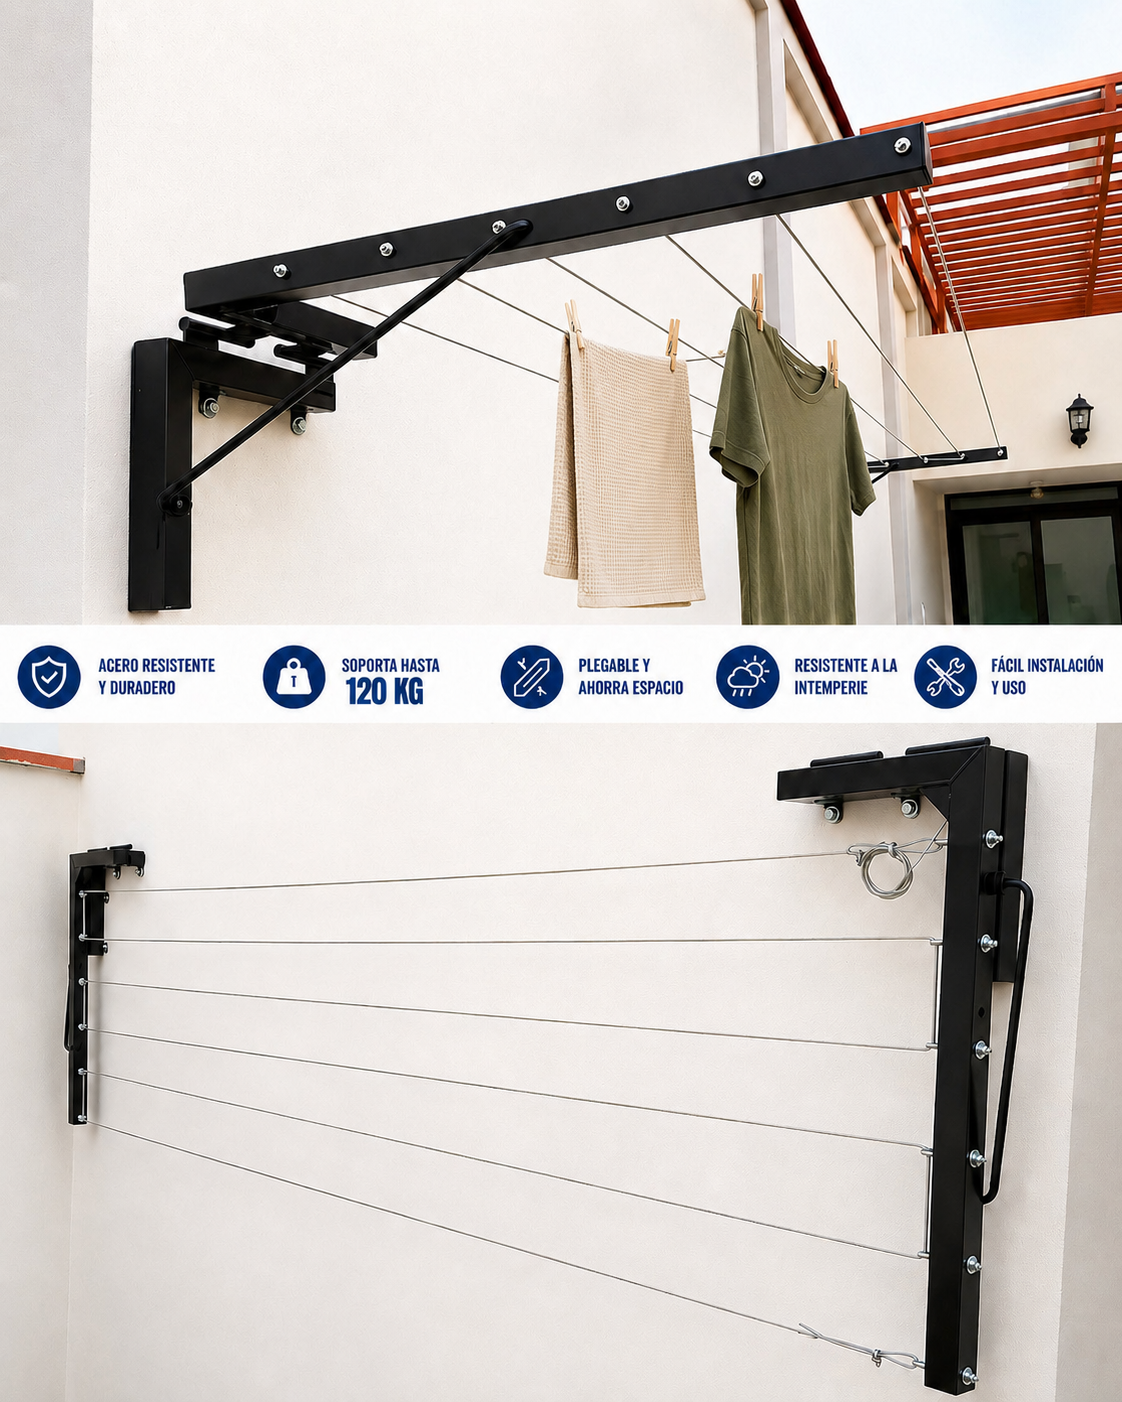
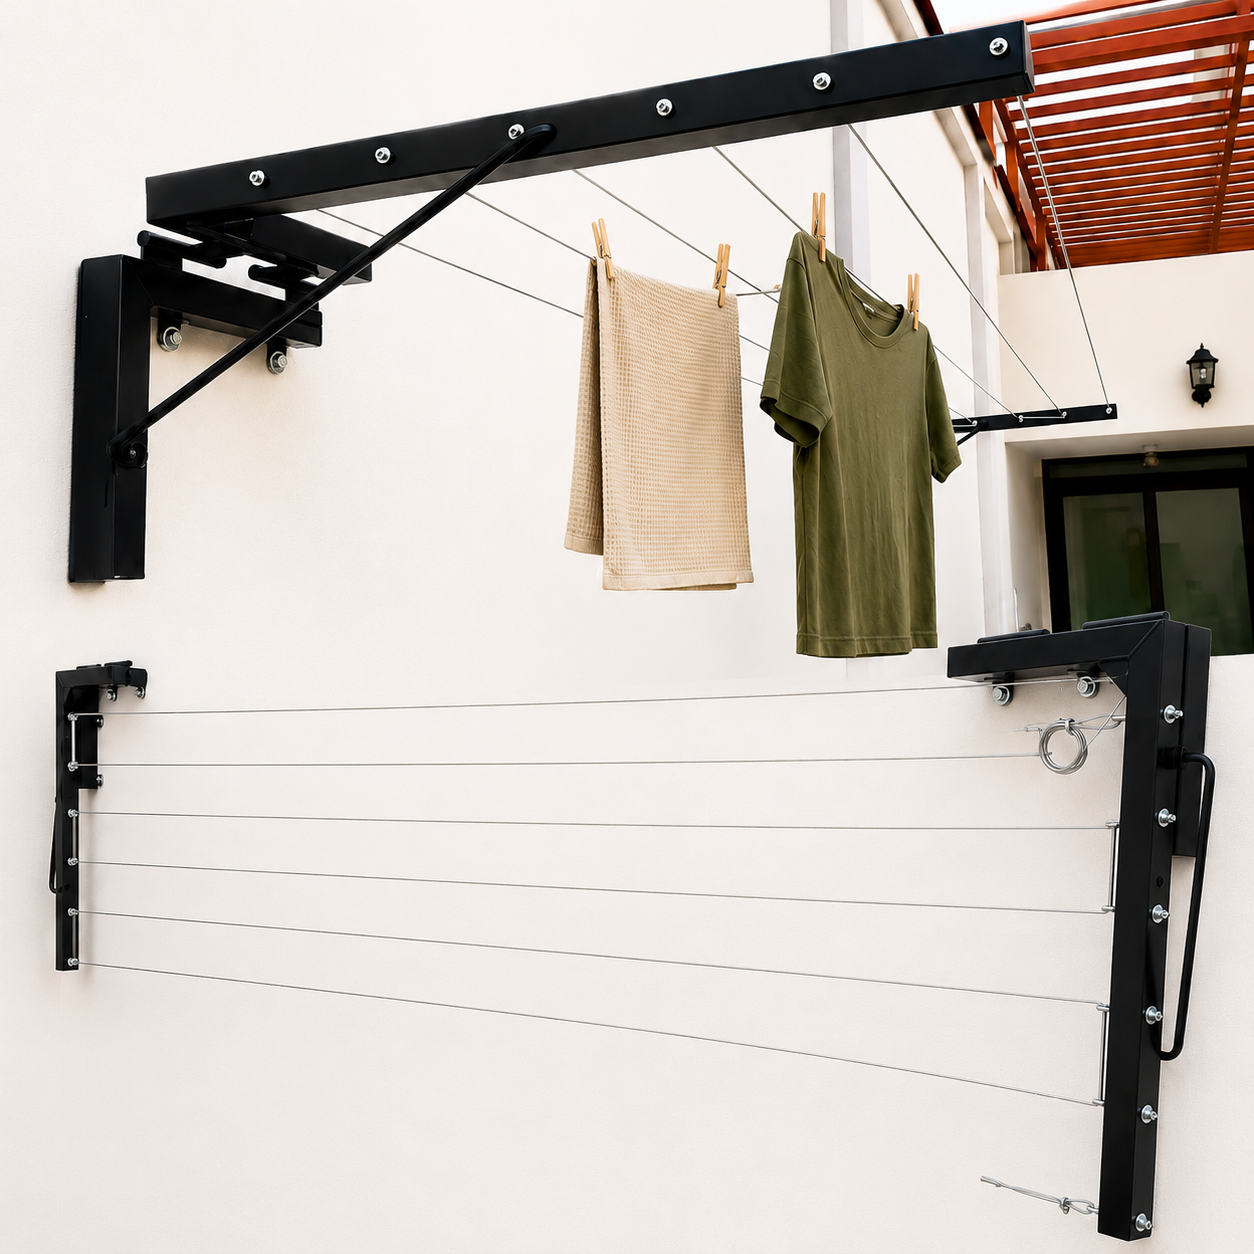
nueva subida

diff --git a/index.html b/index.html
@@ -131,10 +131,10 @@
               Formato: JPG optimizado para web (calidad 80-85%), peso ideal < 300KB
             -->
             <div class="galeria__slide galeria__slide--con-video" data-slide="0" id="slide-con-video">
-              <div class="galeria__overlay-texto" data-overlay-video>
+              <!--<div class="galeria__overlay-texto" data-overlay-video>
                 <h2>TENDEDERO PLEGABLE<br />6 FILAS</h2>
                 <p>Más espacio para tender, pliegalo cuando lo necesitas.</p>
-              </div>
+              </div>-->
               <div class="galeria__sello-peso" data-overlay-video>
                 SOPORTA HASTA<br /><strong>120</strong>KG
               </div>
@@ -195,10 +195,10 @@
               Formato: JPG optimizado para web (calidad 80-85%), peso ideal < 300KB
             -->
             <div class="galeria__slide" data-slide="5">
-              <div class="galeria__overlay-texto">
+              <!--<div class="galeria__overlay-texto">
                 <h2>TENDEDERO PLEGABLE<br />6 FILAS</h2>
                 <p>Más espacio para tender, pliegalo cuando lo necesitas.</p>
-              </div>
+              </div>-->
               <div class="galeria__sello-peso">
                 SOPORTA HASTA<br /><strong>120</strong>KG
               </div>
@@ -713,7 +713,7 @@
             <span class="mej-resena__verificado">✔️ Compra verificada</span>
           </div>
           <p class="mej-resena__texto">"Pagué al recibirlo, todo tal cual la foto. El técnico vino a instalarlo y quedó firme en la pared. Muy contenta con la compra."</p>
-          <div class="mej-resena__autor">— Rosa T. · Trujillo</div>
+          <div class="mej-resena__autor">— Rosa T. · Callao</div>
         </div>
       </div>
 